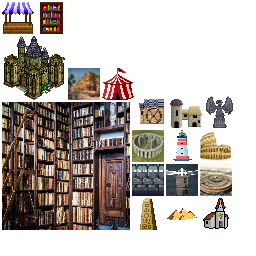
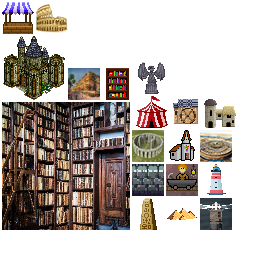
Stoneworks: Implement stoneworks building

Changed region(s): [[0.4062, 0.25, 0.9375, 0.9062], [0.125, 0.0, 0.2812, 0.1562]]

diff --git a/core/src/main/java/me/rhin/openciv/game/city/building/type/Stoneworks.java b/core/src/main/java/me/rhin/openciv/game/city/building/type/Stoneworks.java
@@ -4,16 +4,17 @@ import me.rhin.openciv.asset.TextureEnum;
 import me.rhin.openciv.game.city.City;
 import me.rhin.openciv.game.city.building.Building;
 import me.rhin.openciv.game.map.tile.Tile;
-import me.rhin.openciv.game.map.tile.TileType.TileProperty;
-import me.rhin.openciv.game.research.type.OpticsTech;
+import me.rhin.openciv.game.map.tile.TileType;
+import me.rhin.openciv.game.research.type.CalendarTech;
 import me.rhin.openciv.shared.stat.Stat;
 
-public class Lighthouse extends Building {
+public class Stoneworks extends Building {
 
-	public Lighthouse(City city) {
+	public Stoneworks(City city) {
 		super(city);
 
-		this.statLine.addValue(Stat.FOOD_GAIN, 1);
+		this.statLine.addValue(Stat.PRODUCTION_GAIN, 1);
+		this.statLine.addValue(Stat.MORALE, 5);
 		this.statLine.addValue(Stat.MAINTENANCE, 1);
 	}
 
@@ -24,31 +25,31 @@ public class Lighthouse extends Building {
 
 	@Override
 	public float getGoldCost() {
-		return 150;
+		return 200;
 	}
 
 	@Override
 	public String getName() {
-		return "Lighthouse";
+		return "Stoneworks";
 	}
 
 	@Override
 	public boolean meetsProductionRequirements() {
-		boolean nearWater = false;
+		boolean requiredTile = false;
 		for (Tile tile : city.getTile().getAdjTiles())
-			if (tile.containsTileProperty(TileProperty.WATER))
-				nearWater = true;
+			if (tile.containsTileType(TileType.MARBLE_IMPROVED))
+				requiredTile = true;
 
-		return city.getPlayerOwner().getResearchTree().hasResearched(OpticsTech.class) && nearWater;
+		return city.getPlayerOwner().getResearchTree().hasResearched(CalendarTech.class) && requiredTile;
 	}
 
 	@Override
 	public TextureEnum getTexture() {
-		return TextureEnum.BUILDING_LIGHTHOUSE;
+		return TextureEnum.BUILDING_STONEWORKS;
 	}
 
 	@Override
 	public String getDesc() {
-		return "+1 Food for each worked ocean\ntile.\n+1 Food for every worked fish\ntile.\n+1 Production for every sea\nresource worked.";
+		return "Improves the output of quarries\n\n+5 Morale\n+1 Production\n+1 Production for each improved\nquarry tile.";
 	}
 }

diff --git a/server/src/main/java/me/rhin/openciv/server/game/city/building/type/Stoneworks.java b/server/src/main/java/me/rhin/openciv/server/game/city/building/type/Stoneworks.java
@@ -2,16 +2,34 @@ package me.rhin.openciv.server.game.city.building.type;
 
 import me.rhin.openciv.server.game.city.City;
 import me.rhin.openciv.server.game.city.building.Building;
+import me.rhin.openciv.server.game.city.building.IncreaseTileStatlineBuilding;
+import me.rhin.openciv.server.game.map.tile.Tile;
+import me.rhin.openciv.server.game.map.tile.TileType;
+import me.rhin.openciv.server.game.map.tile.TileType.TileProperty;
 import me.rhin.openciv.server.game.research.type.CalendarTech;
 import me.rhin.openciv.shared.stat.Stat;
+import me.rhin.openciv.shared.stat.StatLine;
 
-public class Stoneworks extends Building {
+public class Stoneworks extends Building implements IncreaseTileStatlineBuilding {
 
 	public Stoneworks(City city) {
 		super(city);
 
 		this.statLine.addValue(Stat.PRODUCTION_GAIN, 1);
+		this.statLine.addValue(Stat.MORALE, 5);
 		this.statLine.addValue(Stat.MAINTENANCE, 1);
+	}
+
+	@Override
+	public StatLine getAddedStatline(Tile tile) {
+		StatLine statLine = new StatLine();
+
+		if (tile.containsTileType(TileType.MARBLE_IMPROVED)) {
+			statLine.addValue(Stat.PRODUCTION_GAIN, 1);
+			statLine.addValue(Stat.GOLD_GAIN, 1);
+		}
+
+		return statLine;
 	}
 
 	@Override
@@ -19,19 +37,24 @@ public class Stoneworks extends Building {
 		return 75;
 	}
 
-	@Override	
+	@Override
 	public boolean meetsProductionRequirements() {
-		return city.getPlayerOwner().getResearchTree().hasResearched(CalendarTech.class);
+		boolean requiredTile = false;
+		for (Tile tile : city.getTile().getAdjTiles())
+			if (tile.containsTileType(TileType.MARBLE_IMPROVED))
+				requiredTile = true;
+
+		return city.getPlayerOwner().getResearchTree().hasResearched(CalendarTech.class) && requiredTile;
 	}
 
 	@Override
 	public float getGoldCost() {
-		return 215;
+		return 200;
 	}
 
 	@Override
 	public String getName() {
 		return "Stoneworks";
-	}	
+	}
 
 }

diff --git a/core/src/main/java/me/rhin/openciv/game/production/ProducibleItemManager.java b/core/src/main/java/me/rhin/openciv/game/production/ProducibleItemManager.java
@@ -24,6 +24,7 @@ import me.rhin.openciv.game.city.building.type.Shrine;
 import me.rhin.openciv.game.city.building.type.Stables;
 import me.rhin.openciv.game.city.building.type.StatueOfAres;
 import me.rhin.openciv.game.city.building.type.Stonehenge;
+import me.rhin.openciv.game.city.building.type.Stoneworks;
 import me.rhin.openciv.game.city.building.type.Walls;
 import me.rhin.openciv.game.city.building.type.WaterMill;
 import me.rhin.openciv.game.notification.type.AvailableProductionNotification;
@@ -92,7 +93,8 @@ public class ProducibleItemManager {
 		possibleItems.put("Stables", new Stables(city));
 		possibleItems.put("National College", new NationalCollege(city));
 		possibleItems.put("Lighthouse", new Lighthouse(city));
-
+		possibleItems.put("Stoneworks", new Stoneworks(city));
+		
 		// Wonders
 		possibleItems.put("Great Pyramids", new GreatPyramids(city));
 		possibleItems.put("Great Library", new GreatLibrary(city));

diff --git a/server/src/main/java/me/rhin/openciv/server/game/production/ProducibleItemManager.java b/server/src/main/java/me/rhin/openciv/server/game/production/ProducibleItemManager.java
@@ -25,6 +25,7 @@ import me.rhin.openciv.server.game.city.building.type.Shrine;
 import me.rhin.openciv.server.game.city.building.type.Stables;
 import me.rhin.openciv.server.game.city.building.type.StatueOfAres;
 import me.rhin.openciv.server.game.city.building.type.Stonehenge;
+import me.rhin.openciv.server.game.city.building.type.Stoneworks;
 import me.rhin.openciv.server.game.city.building.type.Walls;
 import me.rhin.openciv.server.game.city.building.type.WaterMill;
 import me.rhin.openciv.server.game.unit.type.Archer;
@@ -103,6 +104,7 @@ public class ProducibleItemManager implements NextTurnListener {
 		possibleItems.put("Stables", new Stables(city));
 		possibleItems.put("National College", new NationalCollege(city));
 		possibleItems.put("Lighthouse", new Lighthouse(city));
+		possibleItems.put("Stoneworks", new Stoneworks(city));
 
 		// Wonders
 		possibleItems.put("Great Pyramids", new GreatPyramids(city));

diff --git a/server/src/main/java/me/rhin/openciv/server/game/city/City.java b/server/src/main/java/me/rhin/openciv/server/game/city/City.java
@@ -531,9 +531,7 @@ public class City implements AttackableEntity, SpecialistContainer, NextTurnList
 		tileStatLine.mergeStatLine(tile.getStatLine());
 		for (Building building : buildings) {
 			if (building instanceof IncreaseTileStatlineBuilding) {
-				// Problem: Lighthouse not detected.
 				IncreaseTileStatlineBuilding statlineBuilding = (IncreaseTileStatlineBuilding) building;
-				System.out.println("!!! increasing by " + statlineBuilding.getAddedStatline(tile));
 
 				tileStatLine.mergeStatLine(statlineBuilding.getAddedStatline(tile));
 			}

diff --git a/server/src/main/java/me/rhin/openciv/server/game/state/InGameState.java b/server/src/main/java/me/rhin/openciv/server/game/state/InGameState.java
@@ -723,7 +723,7 @@ public class InGameState extends GameState implements DisconnectListener, Select
 		// Add AI
 		for (int i = 0; i < 2; i++)
 			for (CityStateType type : CityStateType.values()) {
-				//getAIPlayers().add(new CityStatePlayer(type));
+				getAIPlayers().add(new CityStatePlayer(type));
 			}
 
 		getAIPlayers().add(new BarbarianPlayer());

diff --git a/server/src/main/java/me/rhin/openciv/server/game/map/GameMap.java b/server/src/main/java/me/rhin/openciv/server/game/map/GameMap.java
@@ -577,7 +577,7 @@ public class GameMap implements MapRequestListener {
 		}
 
 		// Spawn barbarians
-		int campAmount = 0 * (mapSize + 1);
+		int campAmount = 5 * (mapSize + 1);
 		for (int i = 0; i < campAmount; i++) {
 			int x = rnd.nextInt(getWidth());
 			int y = rnd.nextInt(getHeight());

diff --git a/server/src/main/java/me/rhin/openciv/server/game/city/building/type/Lighthouse.java b/server/src/main/java/me/rhin/openciv/server/game/city/building/type/Lighthouse.java
@@ -30,14 +30,6 @@ public class Lighthouse extends Building implements IncreaseTileStatlineBuilding
 	}
 
 	@Override
-	public void create() {
-		super.create();
-
-		// for (Tile tile : city.getTerritory())
-
-	}
-
-	@Override
 	public float getBuildingProductionCost() {
 		return 75;
 	}

diff --git a/core/src/main/java/me/rhin/openciv/asset/TextureEnum.java b/core/src/main/java/me/rhin/openciv/asset/TextureEnum.java
@@ -86,6 +86,7 @@ public enum TextureEnum {
 	BUILDING_SHRINE,
 	BUILDING_COLOSSEUM,
 	BUILDING_NATIONAL_COLLEGE,
+	BUILDING_STONEWORKS,
 	ICON_SCIENCE,
 	ICON_HERITAGE,
 	ICON_GOLD,
